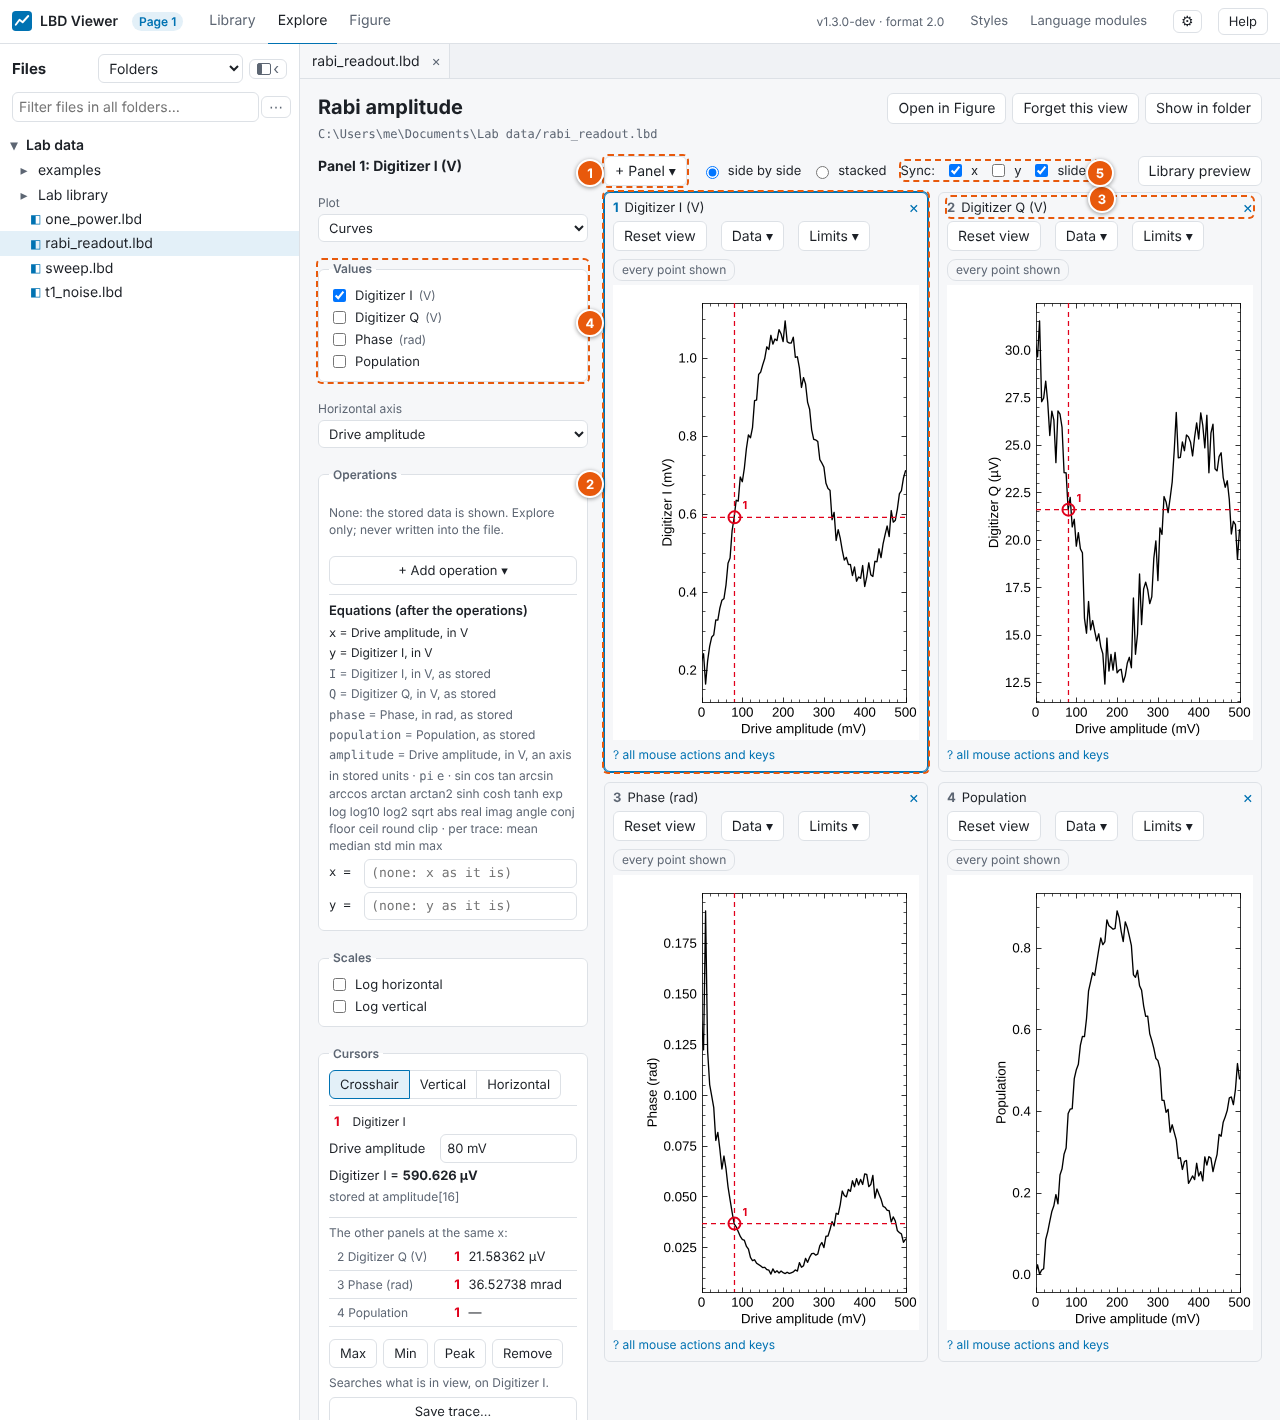
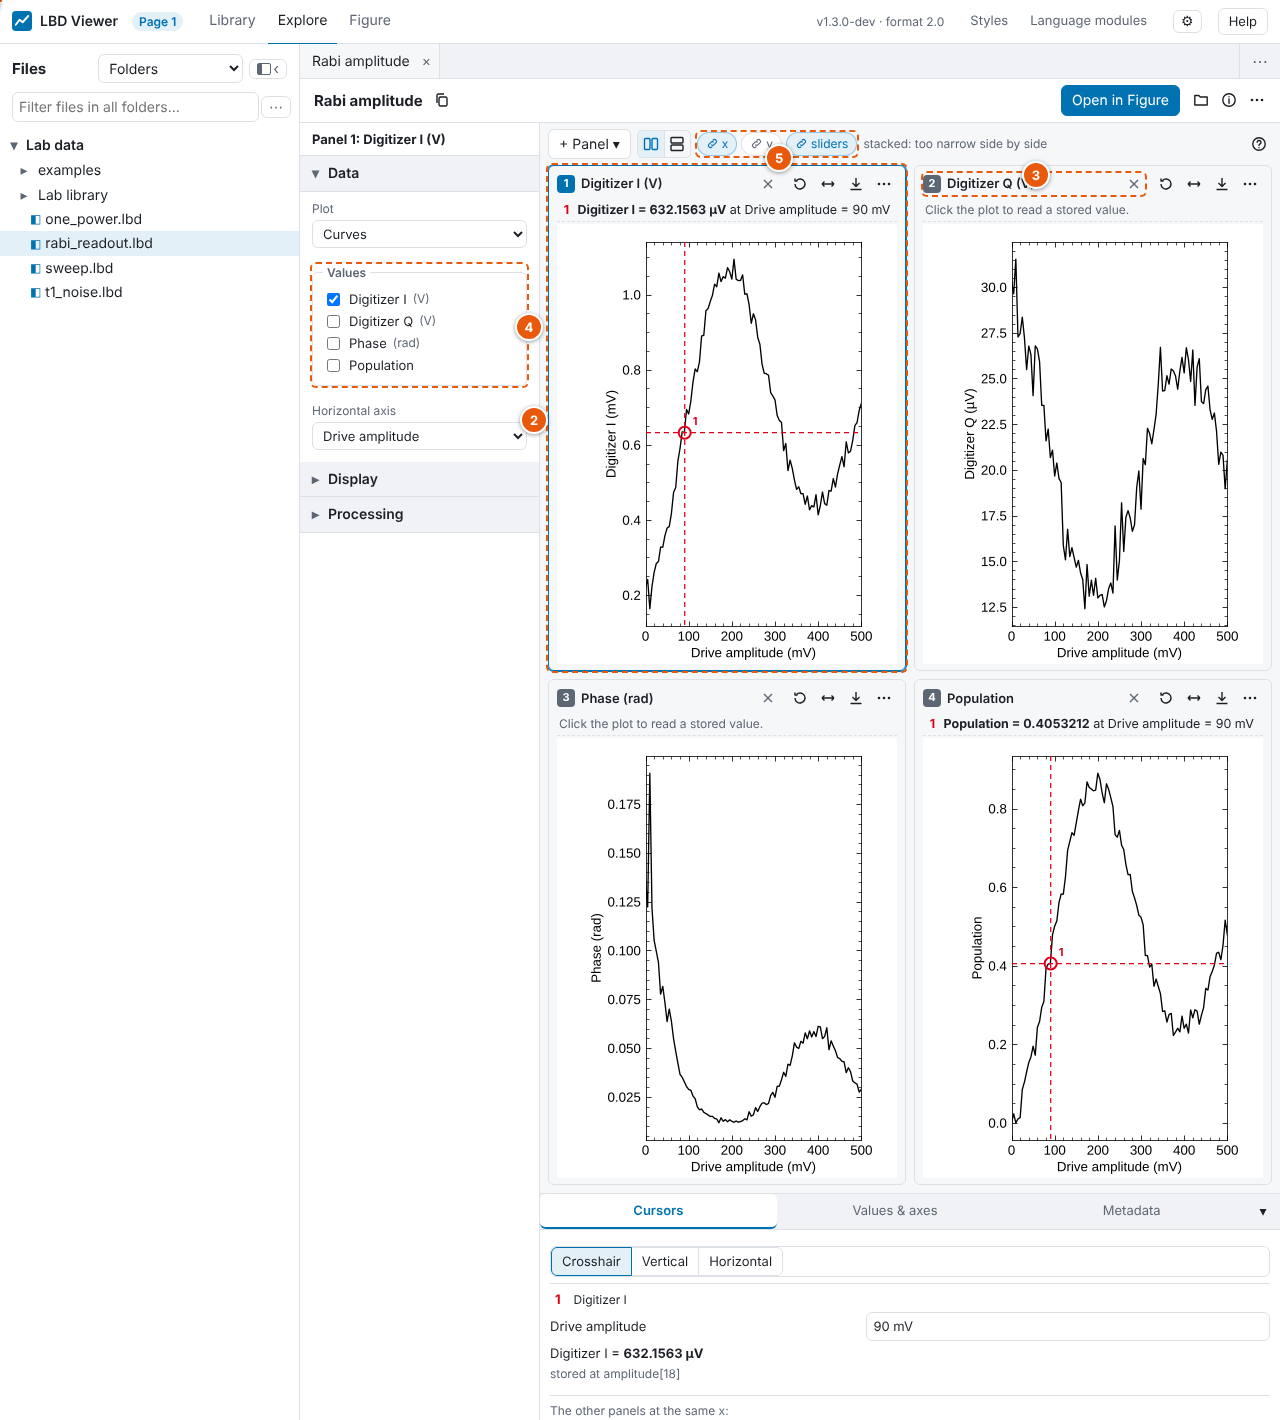
Explore docs, screenshots and changelog for the workbench
Claude-Session: https://claude.ai/code/session_01Mh9PuDJKtKVYz8DgGjk5wf

diff --git a/scripts/make_screenshots.py b/scripts/make_screenshots.py
@@ -265,21 +265,21 @@ def explore(page: Page, url: str, ctx) -> None:
     fresh(page, url, "Explore")
     page.locator(".row-label", has_text="sweep.lbd").first.dblclick()
     host = page.locator("main:not([hidden]) .explore-overlay")
-    page.locator("main:not([hidden]) .explore-readout .mono").wait_for()
+    page.locator("main:not([hidden]) .explore-note").first.wait_for()
     page.wait_for_timeout(800)
     box = host.bounding_box()
     page.mouse.click(box["x"] + box["width"] * 0.45, box["y"] + box["height"] * 0.5)   # read a cell
     page.locator("main:not([hidden]) .explore-pick").wait_for()
     page.keyboard.press("c")                    # without the cuts (shown in reading.png): all fits
     page.wait_for_timeout(1500)
-    mark(page, [
+    mark(page, [                                # the numbers of the list in explore.md
         (1, ".pages", 0, "b"),
         (2, "main:not([hidden]) .tabs .tab", 0, "b"),
-        (3, "main:not([hidden]) .controls .field", 0, "r"),
-        (4, "main:not([hidden]) .axis-select", 0, "r"),
-        (5, "main:not([hidden]) .explore-note", 0, "b"),
+        (3, "main:not([hidden]) .controls-section", 0, "r"),
+        (4, "main:not([hidden]) .explore-toolbar .ib", 0, "b"),
+        (5, "main:not([hidden]) .explore-readout", 0, "b"),
         (6, "main:not([hidden]) .explore-host", 0, "tr"),
-        (7, "main:not([hidden]) .explore-pick", 0, "b"),
+        (7, "main:not([hidden]) .inspector-tabs", 0, "l"),
     ])
     save(page, VIEWER_IMG / "explore.png")
 
@@ -289,7 +289,7 @@ def explore_reading(page: Page, url: str, ctx) -> None:
     fresh(page, url, "Explore")
     page.locator(".row-label", has_text="sweep.lbd").first.dblclick()
     host = page.locator("main:not([hidden]) .explore-overlay")
-    page.locator("main:not([hidden]) .explore-readout .mono").wait_for()
+    page.locator("main:not([hidden]) .explore-note").first.wait_for()
     explore_area = page.locator("main:not([hidden])")
     explore_area.get_by_label("Plot type").select_option("heatmap")               # the sweep as a map
     page.wait_for_timeout(1200)
@@ -316,11 +316,14 @@ def explore_operations(page: Page, url: str, ctx) -> None:
     fresh(page, url, "Explore")
     page.locator(".row-label", has_text="sweep.lbd").first.dblclick()
     area = page.locator("main:not([hidden])")
-    page.locator("main:not([hidden]) .explore-readout .mono").wait_for()
+    page.locator("main:not([hidden]) .explore-note").first.wait_for()
     area.get_by_label("Plot type").select_option("heatmap")
     page.wait_for_timeout(1200)
     area.get_by_label("Complex values").select_option("db")
     page.wait_for_timeout(1200)
+    summary = area.locator(".controls-section > summary", has_text="Processing")
+    if summary.locator("xpath=..").get_attribute("open") is None:
+        summary.click()
     area.locator(".operations").get_by_role("button", name="+ Add operation ▾").click()
     page.locator(".context-menu").get_by_role("menuitem", name="Subtract the mean", exact=True).click()
     page.wait_for_timeout(1000)
@@ -338,9 +341,15 @@ def explore_equations(page: Page, url: str, ctx) -> None:
     fresh(page, url, "Explore")
     page.locator(".row-label", has_text="sweep.lbd").first.dblclick()
     area = page.locator("main:not([hidden])")
-    page.locator("main:not([hidden]) .explore-readout .mono").wait_for()
+    page.locator("main:not([hidden]) .explore-note").first.wait_for()
     area.get_by_label("Complex values").select_option("db")
     page.wait_for_timeout(1200)
+    for section in ("Processing",):             # folded at first
+        summary = area.locator(".controls-section > summary", has_text=section)
+        if summary.locator("xpath=..").get_attribute("open") is None:
+            summary.click()
+    area.locator(".equations > summary").click()
+    area.locator(".eq-names > summary").click()
     box = area.get_by_label("Equation for z")
     box.fill("z - max(z)")                      # each power's row against its own maximum
     box.press("Enter")
@@ -366,15 +375,17 @@ def explore_panels(page: Page, url: str, ctx) -> None:
     page.wait_for_timeout(1500)
     box = area.locator(".panel .explore-overlay").nth(0).bounding_box()
     page.mouse.click(box["x"] + box["width"] * 0.42, box["y"] + box["height"] * 0.5)   # one cursor in every panel
+    if not area.locator(".inspector-body").is_visible():
+        area.get_by_role("tab", name="Cursors").click()       # the inspector folded at this width
     area.locator(".cursor-others").wait_for()
-    page.mouse.move(5, 400)                     # no "mouse at" line: the panels keep their size
+    page.mouse.move(5, 400)                     # no mouse position over the plots
     page.wait_for_timeout(1500)
     mark(page, [                                # the numbers of the list in explore.md
         (1, "main:not([hidden]) .panel-bar button", 0, "L"),
         (2, "main:not([hidden]) .panel.active", 0, "L"),
         (3, "main:not([hidden]) .panel-title", 1, "t"),
         (4, "main:not([hidden]) .controls fieldset", 0, "r"),
-        (5, "main:not([hidden]) .panel-sync", 0, "r"),
+        (5, "main:not([hidden]) .panel-sync", 0, "b"),
     ])
     save(page, VIEWER_IMG / "panels.png")
     page.set_viewport_size(SIZE)

diff --git a/docs/viewer/explore.md b/docs/viewer/explore.md
@@ -8,20 +8,40 @@ opens it here. For a figure to export, use **Figure** (one click away, see below
 
 1. **Workspaces:** **Library** (find files), **Explore** (look at data) and **Figure** (make
    figures). Each has its own tabs; a file can be open in Explore and in Figure at once.
-2. **Tabs** of the files open in Explore. A single click on a file shows it in a *preview* tab
-   (in italics), which the next single click replaces; a double-click keeps it open. Right-click
-   a tab to close it, open it in Figure or in a new browser tab.
-3. **What to plot:** curves or a map, the values, the horizontal axis, one curve per … (or the
-   map's vertical axis), complex values, and a slider for each other dimension.
-4. **Which traces, scales and colours:** see [Choosing traces](#choosing-traces) and
-   [Scales, colours and limits](#scales-colours-and-limits).
-5. **How the data fits the screen:** for example "max of 6×8 cells per pixel" (see
-   [Large data](#large-data)).
+2. **Tabs** of the files open in Explore, by title (the file name is in the tooltip). A single
+   click on a file shows it in a *preview* tab (in italics), which the next single click
+   replaces; a double-click keeps it open. Right-click a tab to close it, open it in Figure or in
+   a new browser tab; **⋯** at the end lists every tab; ← → move between them.
+3. **The controls**, in three folding sections: **Data** (curves or a map, the values, the axes,
+   one curve per …, complex values, a slider for each other dimension, which traces),
+   **Display** (scales, colours, what a pixel shows when it stands for several cells) and
+   **Processing** (operations and equations).
+4. **The panel's toolbar**: its name, then **⟲** reset the view, **⇔** type the limits,
+   **✂** cuts (maps), **⤓** data (save as CSV, copy the picture) and **⋯** (mouse and keys,
+   duplicate or remove the panel). Each icon says what it does when you point at it.
+5. **The cursors' values**, on one line under the panel's title (see [Reading values](#reading-values)).
 6. **The plot.** Zoom, pan and click on it, see [Moving around](#moving-around).
-7. **The cursors' values**, as stored in the file, see [Reading values](#reading-values).
+7. **The inspector:** **Cursors** (all the numbers, typed positions, Max / Min / Peak),
+   **Values & axes** (the file's tables) and **Metadata** (with a filter). **ⓘ** at the top
+   opens it on the file's values and axes.
 
-Below the side panel's colours is the **Cursors** section (see [Reading values](#reading-values)).
-Click **?** under the plot (or press **?** on it) for every mouse action and key.
+The header holds the title, the path (**⧉** copies it), **Open in Figure**, **📂** show in folder,
+**ⓘ** file info and **⋯** (**Use as Library picture**, **Forget this view**). Click **?** above
+the panels (or press **?** on a plot) for every mouse action and key.
+
+**Any window size.** Explore fills the window and the page itself never scrolls: the controls,
+the panels and the inspector each scroll on their own, so changing a setting or reading a value
+never moves the plot.
+
+| Explore's width | Controls | Panels | Inspector |
+|---|---|---|---|
+| 1500 px or more | a column on the left | the middle | a column on the right |
+| 1100–1500 px | a column | the middle | a strip under the panels |
+| 900–1100 px | a column | the middle | a tab row under the panels; click a tab to open it |
+| below 900 px | a drawer: **⚙** above the panels | the whole width | a tab row; opens as a sheet |
+
+Panels side by side that would be narrower than 450 px are stacked instead, for that size only
+(the panel bar says "stacked: too narrow side by side"); a wider window puts them back.
 
 ## Moving around
 
@@ -30,10 +50,11 @@ Click **?** under the plot (or press **?** on it) for every mouse action and key
 | Turn the mouse wheel | Zooms in or out around the mouse. **Shift**: only horizontally; **Alt**: only vertically. |
 | Drag with the left button | Zooms to the box you drew. A flat box zooms one axis only. |
 | Drag with the right or middle button | Moves the view. |
-| Double-click | Shows all the data again (also **Reset view**). |
+| Double-click | Shows all the data again (also **⟲ Reset view**). |
 | Click | Puts cursor 1 on the nearest stored point (curves) or on the cell (maps), see [Reading values](#reading-values). |
 | Right-click | A menu: cursors, Max, Min, Peak, cuts, show everything. |
-| Type in **Horizontal** / **Vertical** *from … to* | Shows exactly that range. Empty boxes mean "to the end of the data". |
+| **⇔ Limits**, then type in **Horizontal** / **Vertical** *from … to* | Shows exactly that range. Empty boxes mean "to the end of the data". |
+| **Esc** | Closes what is open (help, limits); with nothing open, removes the cursors (**Undo** in the message). |
 
 Every picture is complete: its axes always match its data. While you zoom or pan, the data is
 drawn at half resolution, which is faster; as soon as the mouse rests, the sharp picture follows.
@@ -62,18 +83,18 @@ was swept, Labber's *step channels*, are the **axes**.) A file with several valu
 Explore with **one panel per value**, side by side: up to four at first, up to six in all. A file
 with one value shows one plot, as always. Single numbers never get a panel.
 
-1. **+ Panel ▾** adds a panel for a value. **Side by side** / **stacked** arranges the panels;
-   their grid follows from how many there are.
+1. **+ Panel ▾** adds a panel for a value. The two layout icons arrange the panels **side by
+   side** or **stacked**; their grid follows from how many there are.
 2. **The active panel** is outlined: click anywhere in a panel (or press **1** … **6**). The side
    panel shows its controls ("Panel 2: Q"): what you change there changes that panel only. Each
    panel has its own plot type, values, operations, equations, scales and colours.
-3. **A panel's title bar**: drag it to move the panel; **×** removes it; right-click to
+3. **A panel's title bar**: drag it to move the panel; **×** removes it; right-click it (or **⋯**) to
    **Duplicate** it (the same value twice, for example with and without an operation, or at two
    slider positions).
 4. **Values** in the side panel: tick one to add it to the active panel, drag one onto a panel
    to add it there (or onto the bar above the panels for a new panel), right-click one for
    **Show in a new panel** or **Show only this value here**.
-5. **Sync** above the panels:
+5. **Sync** above the panels, three toggles (**x**, **y**, **sliders**):
     - **x** (on): zooming or panning in one panel does the same in every panel with the same
       horizontal axis; showing everything shows all their data. A panel on another axis says so
       in its title bar ("x not synced: Power (dBm), not Frequency (GHz)"); so does one whose x
@@ -85,7 +106,8 @@ with one value shows one plot, as always. Single numbers never get a panel.
 
 **One cursor for all:** while x is synchronized, a click in a panel puts the cursor at that x in
 every panel with the same horizontal axis; each panel puts it on its own data (its own trace, or
-in a map its own row). The panel you click in leads. The **Cursors** section lists the other
+in a map its own row; maps with the same vertical axis too, such as two values of one file, use
+the same row). The panel you click in leads. The inspector's **Cursors** tab lists the other
 panels' values at the cursor ("The other panels at the same x"), with the difference between
 two cursors. **Max**, **Min** and **Peak** search the active panel and move every cursor.
 
@@ -129,14 +151,14 @@ dB for a complex value shown in dB.
 | **Alt** + click or drag | A free position, not on the data; the read-out then gives the nearest stored value. |
 | **Esc** | Removes the cursors. |
 
-**Cursor types**, in the Cursors section:
+**Cursor types**, in the inspector's Cursors tab:
 
 - **Crosshair** (the default): a point of one trace, or a cell.
 - **Vertical:** a line at one x; the section lists **every visible trace's value there**, the
   cursor's own trace first.
 - **Horizontal:** a line at one height, for example to compare peaks with a level.
 
-**The Cursors section** shows each cursor's numbers. Positions can be typed (with a prefix if you
+**The Cursors tab** of the inspector shows each cursor's numbers (the line under each panel's title shows them too, shortened). Positions can be typed (with a prefix if you
 like: `5.12 GHz`); the cursor then moves to the nearest stored point. **Max**, **Min** and
 **Peak** move cursor 1 to the highest, the lowest, or the point farthest from the median (a dip
 or a spike, whichever stands out more): between the two cursors when there are two, otherwise in
@@ -302,7 +324,7 @@ A screen has far fewer pixels than a large file has numbers: a map of 4001 × 40
 in 700 × 500 pixels puts about 50 cells into each pixel. The viewer chooses on purpose what a
 pixel shows, and says so in the note above the plot:
 
-- **Maps:** **Several cells per pixel** sets whether a pixel shows the **max** of its cells
+- **Maps:** **Several cells per pixel** (in **Display**) sets whether a pixel shows the **max** of its cells
   (peaks and single hot cells stay visible), the **min** (dips stay visible) or the **mean**
   (the overall look; a single odd cell fades).
 - **Curves:** each pixel column keeps the lowest and highest point in it, so a spike of one point
@@ -321,7 +343,7 @@ such data and **⚙ → Memory** in the settings.
 
 ## Getting data out
 
-Each panel has a **Data ▾** menu (next to **Reset view**); the same entries are in the plot's
+Each panel has a **⤓ Data** menu (in its toolbar); the same entries are in the plot's
 right-click menu.
 
 ### Save as CSV
@@ -407,12 +429,12 @@ synchronized. Opening the file again shows the same.
   file holds the data, its description and the figure's saved view (see
   [Saving views](saving-and-exporting.md)).
 - Without a remembered view, Explore starts from what the file's saved figure view plots.
-- **Forget this view** (at the top) starts afresh. If a file changed so that a panel no longer
+- **Forget this view** (**⋯** at the top) starts afresh; **Undo** in the message brings the view back. If a file changed so that a panel no longer
   fits (a value or axis it used is gone), that panel is left out and a note names it; if none
   fits, Explore starts afresh.
 - Views remembered by an earlier version (one plot, before panels) open as one panel.
 - Renaming a file in the viewer keeps its remembered view.
-- **Library preview** (above the panels, on the right) makes the panels as they are now the file's picture in
+- **Use as Library picture** (**⋯** at the top) makes the panels as they are now the file's picture in
   the [Library](library.md#previews). Only the picture is kept: changing Explore afterwards
   doesn't change it.
 

diff --git a/CHANGELOG.md b/CHANGELOG.md
@@ -69,6 +69,23 @@ are still written as 1.2).
   leave the Library, how many have labels, the labels only they have, and open tabs showing
   them. Nothing on disk changes. The same menu shows the folder in Explorer / Finder and copies
   its path.
+- **Explore is a workbench that fills the window.** The controls, the plots and a new
+  inspector each scroll on their own, so the page never scrolls and changing a control or reading
+  a cursor never moves the plot. The controls fold into **Data**, **Display** and **Processing**;
+  the inspector has **Cursors**, **Values & axes** (the file's tables and facts) and **Metadata**
+  (with its filter). Every panel has a one-line read-out of its cursors under its title. In
+  narrower windows the inspector becomes a strip under the plots and the controls a drawer
+  (**⚙** in the panel bar); panels too narrow side by side are stacked for that size only.
+- **Explore: icon buttons.** A panel's toolbar is one row: ⟲ Reset view, ⇔ Limits (a popover),
+  ✂ Cuts, ⤓ Data, ⋯; the layout is ▥ ▤, the syncs are toggle chips. Each has its name and key in
+  its tooltip. The header is one line: the path (shortened in the middle, with ⧉ copy),
+  **Open in Figure**, Show in folder, File info and ⋯ (Use as Library picture, Forget this view,
+  with Undo).
+- **Explore: plainer messages.** Esc closes the help or a popover first; it removes the cursors
+  only when nothing is open, with Undo. A saved scatter view offers **Open in Figure** or **Show
+  as curves**; a damaged file says so, with Show in folder; a variable sweep's note shows in the
+  panel, not as a red message. Tabs show the file's title, the active tab is scrolled into view,
+  ⋯ lists all Explore tabs, and ← → move along them.
 - **Library: columns in any order and any width.** Drag a column title to move the column (★
   first, say), drag its edge to resize it; right-click → Move left / right / to the start, and
   Reset columns. The Files sidebar's columns move the same way.
